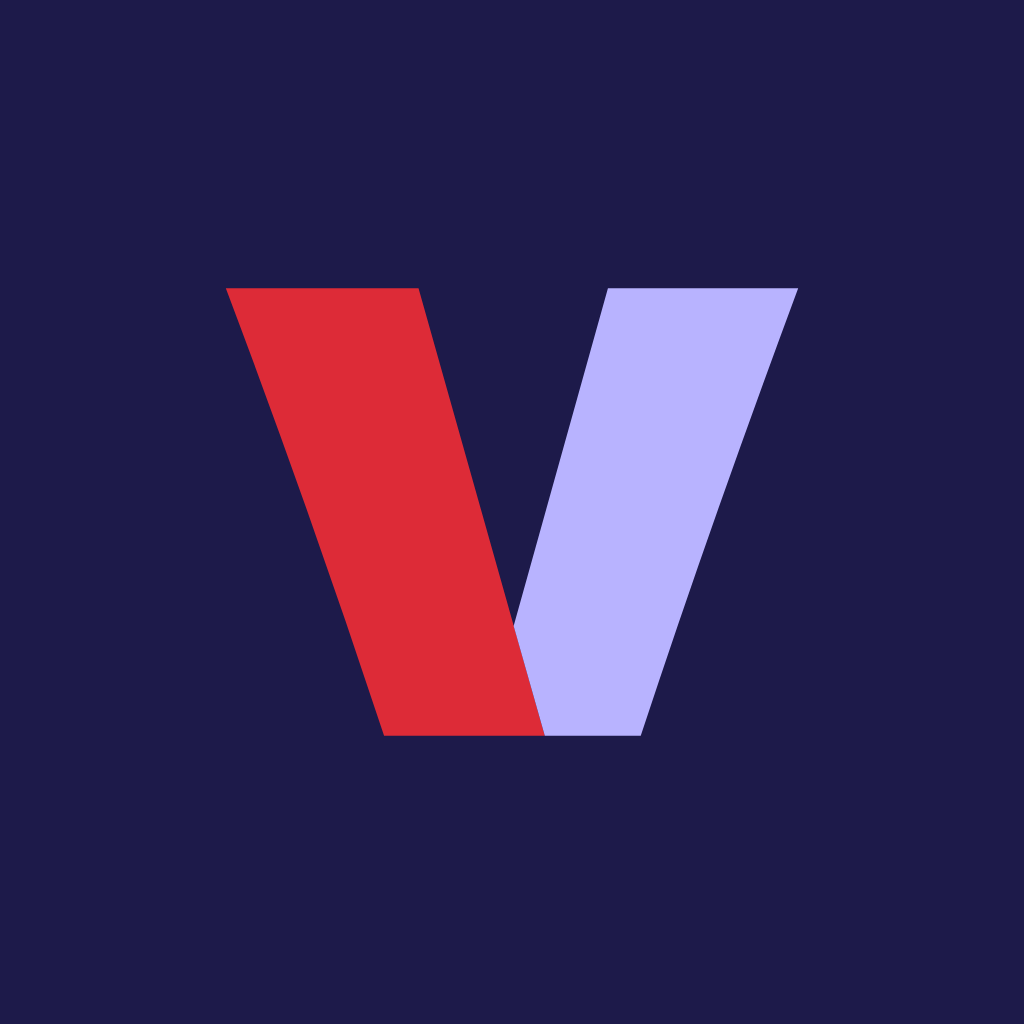
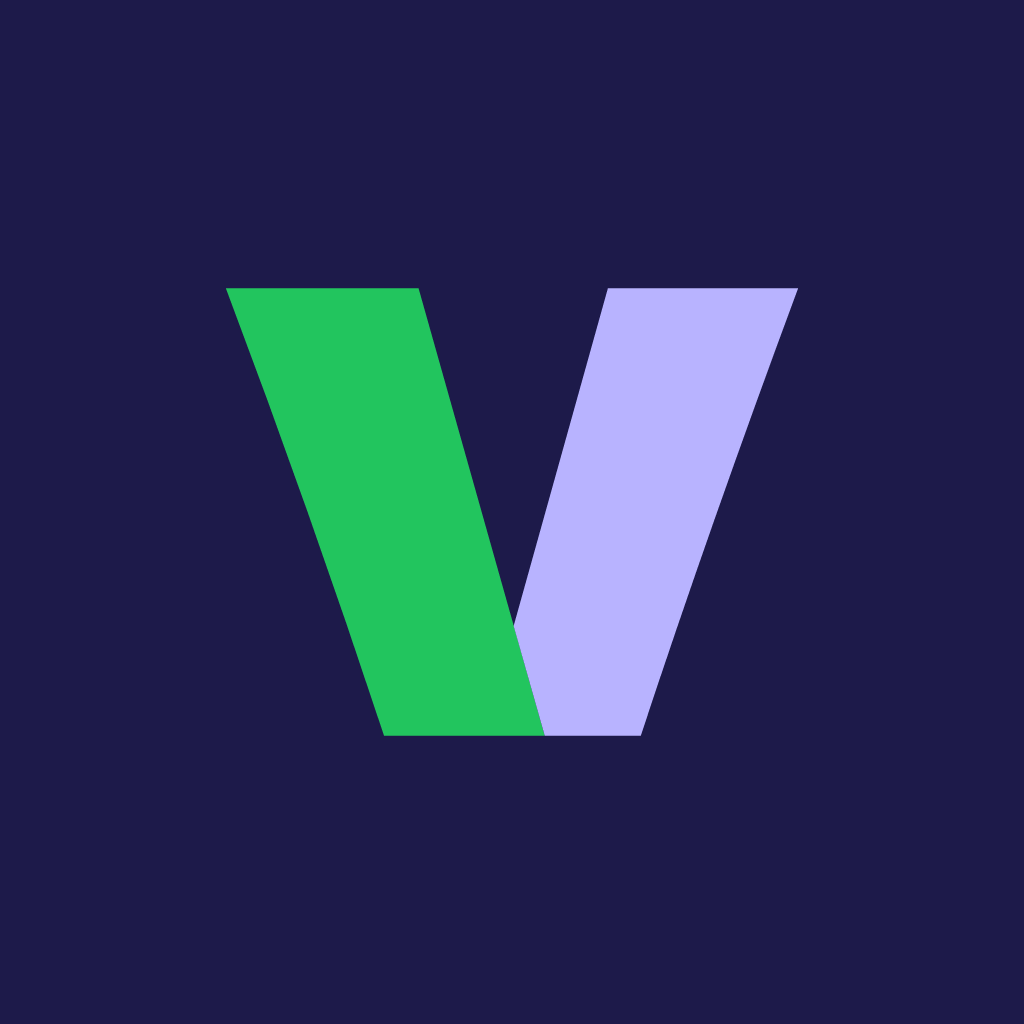
feat(brand): green verzus with the violet bar
The logo's v is green (#22c55e) against violet: deep #5a4fd8 on light grounds,
lavender #b8b3ff on dark. Updates the brand SVGs, favicons, player icons, the
landing page accent and the sign-in email. AGENTS.md records the colour rules:
green means go, red means danger and nothing else, amber asks for a look,
violet is focus and "you are here".

Changed region(s): [[0.2188, 0.2812, 0.5312, 0.7188]]

diff --git a/apps/site/src/styles.css b/apps/site/src/styles.css
@@ -1,6 +1,8 @@
 /* verzus landing page.
  * Palette and line weights come from Sakuga VFX (ink, lavender shade, violet line,
- * 3.2px outlines, offset shadow), with the accent changed from pink to #dd2b37. */
+ * 3.2px outlines, offset shadow), with the accent changed from pink to the verzus green.
+ * --accent (#15803d) carries text and white-on-green; --accent-bright (#22c55e) is for marks
+ * with no text on them: the logo's v, illustration accents, effects. */
 
 :root {
   --ink: #1d1a4a;
@@ -10,8 +12,9 @@
   --lav-2: #dcd9ff;
   --violet: #5a4fd8;
   --dim: #6f6a9c;
-  --red: #dd2b37;
-  --red-deep: #b51f2a;
+  --accent: #15803d;
+  --accent-deep: #14532d;
+  --accent-bright: #22c55e;
 
   --bw: 3.2px;
   --r: 15px;
@@ -25,7 +28,7 @@
   --max: 1240px;
 
   /* Sakuga VFX theme hooks (the library reads these). */
-  --sk-acc: var(--red);
+  --sk-acc: var(--accent);
   --sk-ink: var(--ink);
 }
 
@@ -63,7 +66,7 @@ a {
 }
 
 :focus-visible {
-  outline: 3px solid var(--red);
+  outline: 3px solid var(--accent);
   outline-offset: 3px;
 }
 
@@ -142,8 +145,8 @@ sakuga-checkbox::part(label) {
   margin-right: 0.02em;
   overflow: visible;
 }
-.wordmark__red {
-  fill: var(--red);
+.wordmark__accent {
+  fill: var(--accent-bright);
 }
 .wordmark__side {
   fill: var(--mark-side, var(--violet));
@@ -171,7 +174,7 @@ sakuga-checkbox::part(label) {
   border-bottom: 3px solid transparent;
 }
 .masthead__nav a:hover {
-  border-bottom-color: var(--red);
+  border-bottom-color: var(--accent);
 }
 
 /* ------------------------------------------------------------------ splash */
@@ -276,7 +279,7 @@ sakuga-checkbox::part(label) {
   color: var(--dim);
 }
 .hero__kicker .dot {
-  color: var(--red);
+  color: var(--accent);
   margin-right: 4px;
 }
 
@@ -297,7 +300,7 @@ sakuga-checkbox::part(label) {
 }
 .hero__line em {
   font-style: normal;
-  color: var(--red);
+  color: var(--accent);
 }
 
 /* A smear-in: the line is wiped on stretched and skewed, overshoots, settles. No fading. */
@@ -369,7 +372,7 @@ sakuga-checkbox::part(label) {
   display: flex;
   justify-content: space-between;
   align-items: baseline;
-  background: var(--red);
+  background: var(--accent);
   color: #fff;
   padding: 10px 16px 8px;
   font: 400 15px / 1 var(--display);
@@ -401,7 +404,7 @@ sakuga-checkbox::part(label) {
 }
 .ticket__rows dd.ticket__price {
   font: 400 26px / 1 var(--display);
-  color: var(--red);
+  color: var(--accent);
 }
 .ticket__foot {
   border-top: 2.4px dashed var(--ink);
@@ -422,7 +425,7 @@ sakuga-checkbox::part(label) {
   min-height: 300px;
 }
 .cut--lobby .cut__no {
-  background: var(--red);
+  background: var(--accent);
 }
 
 .lobby {
@@ -447,7 +450,7 @@ sakuga-checkbox::part(label) {
 }
 .lobby__vs {
   font: 400 26px / 1 var(--display);
-  color: var(--red);
+  color: var(--accent);
   transform: rotate(-8deg);
 }
 .slot {
@@ -473,7 +476,7 @@ sakuga-checkbox::part(label) {
   font-size: 24px;
 }
 .slot--filled .slot__face {
-  background: var(--red);
+  background: var(--accent);
   color: #fff;
   border-style: solid;
 }
@@ -540,7 +543,7 @@ sakuga-checkbox::part(label) {
   padding-top: 26px;
 }
 .row:nth-child(odd) .row__cut {
-  color: var(--red);
+  color: var(--accent);
 }
 .row__pic {
   border: var(--bw) solid var(--ink);
@@ -577,7 +580,7 @@ sakuga-checkbox::part(label) {
 .row__try {
   margin-top: 10px;
   font: 400 13px / 1 var(--dot);
-  color: var(--red);
+  color: var(--accent);
 }
 .row__try::before {
   content: "← ";
@@ -614,7 +617,7 @@ sakuga-checkbox::part(label) {
   stroke-linejoin: round;
 }
 .art__acc {
-  fill: var(--red);
+  fill: var(--accent-bright);
 }
 .art__tick {
   fill: none;
@@ -653,7 +656,7 @@ sakuga-checkbox::part(label) {
   box-shadow: 4px 5px 0 var(--lav);
 }
 .chip--up {
-  background: var(--red);
+  background: var(--accent);
   color: #fff;
   box-shadow: 4px 5px 0 var(--ink);
 }
@@ -761,12 +764,12 @@ sakuga-checkbox::part(label) {
   background: repeating-linear-gradient(90deg, transparent 0 14px, rgb(0 0 0 / 0.12) 14px 16px), var(--lav);
 }
 .bar--rival span {
-  background: repeating-linear-gradient(90deg, transparent 0 14px, rgb(0 0 0 / 0.14) 14px 16px), var(--red);
+  background: repeating-linear-gradient(90deg, transparent 0 14px, rgb(0 0 0 / 0.14) 14px 16px), var(--accent);
 }
 
 .hud__vs {
   font: 400 clamp(64px, 9vw, 120px) / 1 var(--display);
-  color: var(--red);
+  color: var(--accent);
   -webkit-text-stroke: 3px #fff;
   paint-order: stroke fill;
   transform: rotate(-9deg);
@@ -875,7 +878,7 @@ sakuga-checkbox::part(label) {
   width: 64%;
   background: var(--ink);
   color: #fff;
-  border-left: 12px solid var(--red);
+  border-left: 12px solid var(--accent);
 }
 
 .notes {
@@ -951,7 +954,7 @@ sakuga-checkbox::part(label) {
 }
 .stamp circle {
   fill: none;
-  stroke: var(--red);
+  stroke: var(--accent);
   stroke-width: 7;
 }
 .stamp circle.thin {
@@ -959,12 +962,12 @@ sakuga-checkbox::part(label) {
 }
 .stamp__ring {
   font: 400 15px var(--dot);
-  fill: var(--red);
+  fill: var(--accent);
   letter-spacing: 3px;
 }
 .stamp__num {
   font: 400 56px var(--display);
-  fill: var(--red);
+  fill: var(--accent);
   text-anchor: middle;
 }
 
@@ -1008,8 +1011,8 @@ sakuga-checkbox::part(label) {
 .card__rel {
   margin-left: auto;
   font: 400 13px / 1 var(--dot);
-  color: var(--red);
-  border: 2.4px solid var(--red);
+  color: var(--accent);
+  border: 2.4px solid var(--accent);
   border-radius: 999px;
   padding: 7px 10px 6px;
   white-space: nowrap;
@@ -1093,11 +1096,11 @@ sakuga-checkbox::part(label) {
   overflow: hidden;
 }
 .blk--app {
-  background: var(--red);
+  background: var(--accent);
   color: #fff;
 }
 .blk--match {
-  background: repeating-linear-gradient(-45deg, var(--red) 0 8px, var(--red-deep) 8px 12px);
+  background: repeating-linear-gradient(-45deg, var(--accent) 0 8px, var(--accent-deep) 8px 12px);
 }
 .blk--walk {
   background: var(--paper);
@@ -1164,7 +1167,7 @@ sakuga-checkbox::part(label) {
   letter-spacing: -0.02em;
 }
 .end__big span {
-  color: var(--red);
+  color: var(--accent);
   display: inline-block;
   transform: rotate(-6deg) scale(1.08);
 }

diff --git a/apps/site/index.html b/apps/site/index.html
@@ -25,7 +25,7 @@
     <a class="skip" href="#main">Skip to content</a>
 
     <header class="masthead">
-      <a class="wordmark" href="/" aria-label="verzus, home"><svg class="wordmark__v" viewBox="0 94 698 546" aria-hidden="true" focusable="false"><path class="wordmark__red" d="M0 94L235 94L389 640L193 640Q103 367 0 94Z" /><path class="wordmark__side" d="M466 94L698 94Q590 385 506 640L389 640L351 506Z" /></svg>erzus</a>
+      <a class="wordmark" href="/" aria-label="verzus, home"><svg class="wordmark__v" viewBox="0 94 698 546" aria-hidden="true" focusable="false"><path class="wordmark__accent" d="M0 94L235 94L389 640L193 640Q103 367 0 94Z" /><path class="wordmark__side" d="M466 94L698 94Q590 385 506 640L389 640L351 506Z" /></svg>erzus</a>
       <p class="masthead__issue">ch.01 <span aria-hidden="true">/</span> the 7 pm slot</p>
       <nav class="masthead__nav" aria-label="Sections">
         <a href="#how">How it works</a>
@@ -377,7 +377,7 @@
       <p class="end__big">See you<br />at <span>7</span>.</p>
       <div class="end__cta"><sakuga-button data-go="player">Find a game</sakuga-button></div>
       <div class="end__small">
-        <span class="wordmark wordmark--small" role="img" aria-label="verzus"><svg class="wordmark__v" viewBox="0 94 698 546" aria-hidden="true" focusable="false"><path class="wordmark__red" d="M0 94L235 94L389 640L193 640Q103 367 0 94Z" /><path class="wordmark__side" d="M466 94L698 94Q590 385 506 640L389 640L351 506Z" /></svg>erzus</span>
+        <span class="wordmark wordmark--small" role="img" aria-label="verzus"><svg class="wordmark__v" viewBox="0 94 698 546" aria-hidden="true" focusable="false"><path class="wordmark__accent" d="M0 94L235 94L389 640L193 640Q103 367 0 94Z" /><path class="wordmark__side" d="M466 94L698 94Q590 385 506 640L389 640L351 506Z" /></svg>erzus</span>
         <span>Hit effects: <a href="https://github.com/finktheartist/sakuga-vfx">Sakuga VFX</a> by Justin Finkelman, MIT</span>
         <span>© 2026 verzus</span>
       </div>

diff --git a/apps/site/src/main.ts b/apps/site/src/main.ts
@@ -2,7 +2,8 @@ import './fonts.css';
 import './styles.css';
 import { label, matchups, type Sport, YOU } from './rivals';
 
-const ACCENT = '#dd2b37';
+// The effects' accent: the logo's bright green (marks and sparks, never text).
+const ACCENT = '#22c55e';
 const LINKS = {
   player: import.meta.env.VITE_PLAYER_URL ?? 'http://localhost:8081',
   venue: import.meta.env.VITE_VENUE_URL ?? 'http://localhost:5173',
@@ -11,7 +12,7 @@ const LINKS = {
 const $ = <T extends Element = HTMLElement>(sel: string) => document.querySelector<T>(sel);
 const $$ = <T extends Element = HTMLElement>(sel: string) => [...document.querySelectorAll<T>(sel)];
 
-/** Sakuga's effects palette is plain JS, not CSS: swap its pink for the verzus red. */
+/** Sakuga's effects palette is plain JS, not CSS: swap its pink for the verzus green. */
 function theme(fx: SakugaFX) {
   fx.P.accent = ACCENT;
 }
@@ -34,7 +35,7 @@ for (const el of $$('[data-go]')) {
 // ------------------------------------------------------------------- splash
 
 function splash() {
-  // Aim at the last word: the red phrase wraps, so its box centre falls between lines.
+  // Aim at the last word: the green phrase wraps, so its box centre falls between lines.
   const hit = $('[data-hit]');
   // The headline's smear lands ~0.55 s in (see the "hit" keyframes).
   setTimeout(() => {

diff --git a/supabase/templates/sign_in.html b/supabase/templates/sign_in.html
@@ -7,7 +7,7 @@
           <table role="presentation" width="100%" cellpadding="0" cellspacing="0" style="max-width:480px;background:#ffffff;border:3px solid #1d1a4a;">
             <tr>
               <td style="background:#1d1a4a;padding:18px 28px;font:700 24px/1 Arial,Helvetica,sans-serif;color:#ffffff;letter-spacing:-0.5px;">
-                <span style="color:#dd2b37;">v</span>erzus
+                <span style="color:#22c55e;">v</span>erzus
               </td>
             </tr>
             <tr>
@@ -17,7 +17,7 @@
                 <p style="margin:0 0 22px;">Type it on the sign-in page. It works for one hour.</p>
                 <p style="margin:0 0 26px;">
                   Or, on the device where you asked for it,
-                  <a href="{{ .ConfirmationURL }}" style="color:#dd2b37;font-weight:700;">sign in with this link</a>.
+                  <a href="{{ .ConfirmationURL }}" style="color:#15803d;font-weight:700;">sign in with this link</a>.
                 </p>
                 <p style="margin:0;font-size:13px;color:#6f6a9c;">Didn't ask for this? You can ignore this email. Nobody can sign in without the code or link in it.</p>
               </td>

diff --git a/AGENTS.md b/AGENTS.md
@@ -36,13 +36,32 @@ See `apps/player/AGENTS.md`. Add native-capable packages with `npx expo install`
 `apps/player`. NativeWind 4.2 needs Tailwind 3.4 and `react-native-css-interop` as a direct
 dependency (pnpm isolated installs).
 
+## Colour
+
+Green means go (main buttons, chosen, on, done); red means danger (errors, missing fields, delete)
+and nothing else; amber (`warn`) asks for a look; violet is focus and "you are here".
+
+- Both apps are themed, light and dark. The palette's values live once, in
+  `packages/tailwind/themes.js`; screens use its theme colours: `canvas`, `surface`, `surface-2`,
+  `line`, `fg`, `fg-2`, `fg-3`, `accent` (with `on-accent` text), `danger`, `warn`, `violet`, and
+  the corners `rounded-chip` / `rounded-control` / `rounded-panel` (4 / 5 / 6px). No new hex
+  values, and not the fixed scales in `colors.js` (`ink-*`, `brand-*`) for screens.
+- Venue app: the `webTheme` plugin writes the CSS variables; the choice is `data-theme` on
+  <html> (`src/lib/theme.ts`, `ThemeSwitch`). Player app: `nativeTheme` plus NativeWind `vars()`
+  in `src/lib/theme.tsx`, which also themes the navigator and status bar.
+- Things CSS can't reach (map tiles, navigation colours) take values from `themes.js` (`rgb()`),
+  or, for the map, `MAP_COLOURS` in `VenueMap.tsx`.
+- The logo is green against violet (`#22c55e`; `#5a4fd8` on light, `#b8b3ff` on dark). See
+  `brand/README.md`.
+
 ## Landing page (`apps/site`)
 
 - `public/sakuga-vfx/` holds unmodified copies of Sakuga VFX (MIT). Never edit them; restyle through
   the `--sk-*` CSS variables and `window.SakugaFX.P` (see `src/main.ts`). Its README records the
   upstream commit. Load them with plain `<script defer>` tags, never as modules.
-- The verzus accent is `#dd2b37` in both places. The toggle component is not used: its painted frames
-  have the original pink baked in.
+- The verzus accent is green: `--accent` `#15803d` for text and white-on-green, `--accent-bright`
+  `#22c55e` for the logo and `SakugaFX.P.accent` (marks and effects, never text). The toggle
+  component is not used: its painted frames have the original pink baked in.
 - `src/fonts.css` loads Latin faces only; the hero's 対戦 is an inline SVG outline. Adding Japanese
   text to the page means adding glyphs the same way, not importing a whole CJK font.
 - Effects follow the library's rules: nothing animates at rest, effects never carry information,

diff --git a/brand/README.md b/brand/README.md
@@ -3,12 +3,23 @@
 The "v" of the wordmark is the logo. It is Dela Gothic One's lowercase v (same width, x-height and
 baseline, so it sets in line with "erzus") split into two bars:
 
-- **Red bar** `#dd2b37`, in front: it runs straight through the vertex and cuts the other bar on a
+- **Green bar** `#22c55e`, in front: it runs straight through the vertex and cuts the other bar on a
   diagonal, the same cut as the landing page's hero panel. Two sides clashing.
 - **Side bar**: violet `#5a4fd8` on light grounds, lavender `#b8b3ff` on dark ones.
 
 It follows the structure of the earlier interim mark (two bars meeting in a V), redrawn in this
 project's palette, without that mark's dot.
+
+## Colour
+
+Green is the verzus colour and means go: the logo's front bar, main buttons, what's chosen or done.
+Red means danger (errors, missing fields, delete) and nothing else. The shared tokens are in
+`packages/tailwind/colors.js`:
+
+- `#22c55e` (brand-500): the logo and marks with no text on them.
+- `#15803d` (brand-600): white text on green (5.0:1, WCAG AA) and green text on light grounds.
+- `#5a4fd8` / `#b8b3ff` (violet): the logo's second bar, and in the interface focus and "you are
+  here". Red (danger) means errors and deletes only.
 
 | File                      | Use                                                                                       |
 | ------------------------- | ----------------------------------------------------------------------------------------- |
@@ -24,4 +35,4 @@ The player app's PNGs (`apps/player/assets/images/*`, `apps/player/public/icon-*
 these files. If the mark changes, re-render them at the same sizes rather than editing the PNGs.
 
 In the landing page the mark is inline SVG inside `.wordmark`; its colours come from CSS
-(`--mark-side`), so it switches to the dark-ground colour in the footer.
+(`--accent-bright`, and `--mark-side`, which switches to lavender in the footer).
